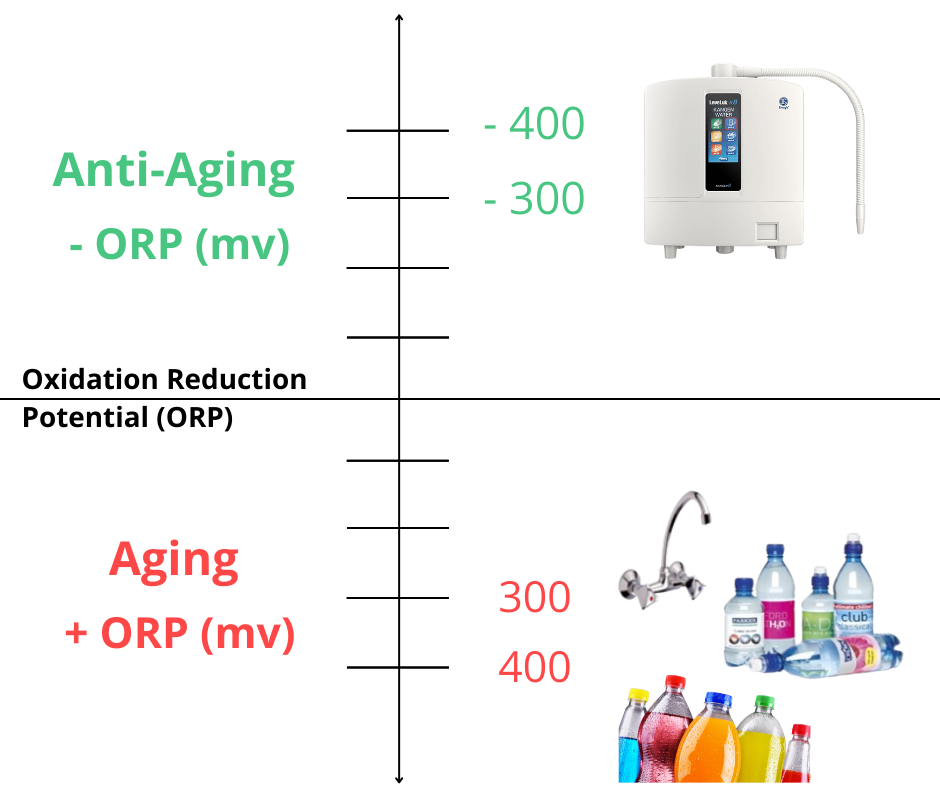
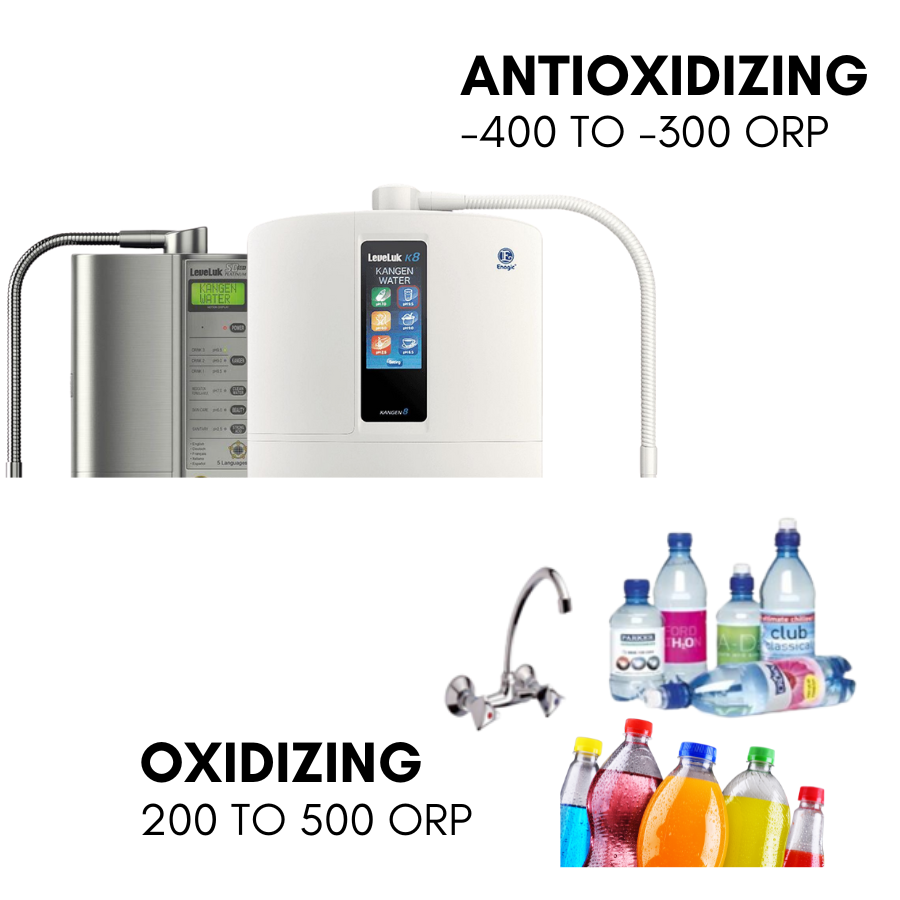
3 properties of KW in homepage

diff --git a/index.htm b/index.htm
@@ -127,7 +127,7 @@
                         Go chemical free in your home for drinking, cooking, cleaning, and many more
                     </p>
                     <p>
-                        Available in Singapore and worldwide
+                        Available in Singapore and in 22 Other Countries
                     </p>
                 </div>
                 <img class="img-fluid mt-4 row-of-ionizers" src="Pictures/Homepage Head Banner Cut.png" alt="Different models of Kangen water machines">
@@ -173,6 +173,30 @@
 
 
             <!-- Age slower with Kangen Water -->
+            <section class="container-fluid colored-banner">
+                <div class="container-style">
+                    <h2>Age slower with Kangen Water</h2>
+                    <div class="row">
+                        <div class="col-lg-7 col-sm-6">
+                            <p class="mobile-text-left long-text-x-margin">
+                                A lot of people think drinking is just about hydration. What if your water is able to provide you with huge amount 
+                                of antioxidants as well? Antioxidants neutralise the free radicals in our body.
+                            </p>
+                            <img class="img-fluid antioxidant-blueberry-img" src="Pictures/Properties - Antioxidation, blueberries.png" 
+                                        alt="Kangen Water and Blueberries Comparison">
+                            <p class="mobile-text-left long-text-x-margin">The Antioxidation property of Kangen Water is evident by how negative 
+                                its Oxidation Reduction Potential (ORP) measure is. If the ORP of our water is positive, it is oxidizing and 
+                                causes us to age at a faster pace.</p>
+                        </div>
+                        <div class="col-lg-5 col-sm-6 mt-2">
+                            <img class="img-fluid" src="Pictures/Properties - Antioxidation, ORP Chart.png" alt="Antioxidant ORP Chart">
+                        </div>
+                    </div>
+                </div>
+            </section>
+
+
+            <!-- Age slower with Kangen Water -->
             <!-- <section class="container-fluid colored-banner">
                 <div class="container-style">
                     <h2>Age slower with Kangen Water</h2>
@@ -191,53 +215,45 @@
                 </div>
             </section> -->
 
-            <!-- Antioxidant property -->
-            <section class="container-fluid colored-banner">
-                <div class="container-style">
-                    <h2>Age slower with Kangen Water</h2>
-                    <div class="row">
-                        <div class="col-lg-6 col-sm-6 mt-lg-2 mt-md-2">
-                            <p class="mobile-text-left">
-                                A lot of people think drinking is just about hydration. What if your water is able to provide you with huge amount 
-                                of antioxidants as well? Antioxidants neutralise the free radicals in our body.
-                            </p>
-                            <img class="img-fluid antioxidant-blueberry-img" src="Pictures/Properties - Antioxidation, blueberries.png" 
-                                        alt="Kangen Water and Blueberries Comparison">
-                            <p>The Antioxidation property of Kangen Water is evident by how negative its Oxidation Reduction Potential (ORP) measure is. Other drinks 
-                                commonly consumed by us are mostly highly oxidising, causing us to age at a faster rate.</p>
-                            <!-- <p class="mobile-text-left">
-                                One 300ml cup of <em>electrolyzed reduced</em> Kangen Water contains the same amount of antioxidants as 2.27kg of blueberries.
-                            </p> -->
-                        </div>
-                        <div class="col-lg-6 col-sm-6">
-                            <img class="img-fluid pt-1 antioxidant-img" src="Pictures/Properties - Antioxidation, ORP Chart.png" alt="Antioxidant ORP Chart">
-                        </div>
-                    </div>
-                </div>
-            </section>
-
 
             <!-- Health Benefits of Kangen Water -->
             <section class="container-fluid">
                 <div class="container-style">
-                    <h2>Health Benefits of Kangen Water</h2>
+                    <h2>Alkalinty and Micro-Clustering</h2>
                     <div class="row">
-                        <div class="col-lg-6 col-sm-6">
+                        <div class="col-lg-5 col-sm-6">
                             <img class="img-fluid pt-1" src="Pictures/Properties - Micro-Clustering.png" alt="Kangen Water Micro-Clustering Property">
                         </div>
-                        <div class="col-lg-6 col-sm-6 mt-lg-2 mt-md-2">
-                            <p class="mobile-text-left">
-                                A lot of people think drinking is just about hydration. What if your water is able to provide you with huge amount 
-                                of antioxidants as well? Antioxidants neutralise the free radicals in our body.
+                        <div class="col-lg-7 col-sm-6 mt-lg-2 mt-md-2">
+                            <p class="long-text-x-margin">
+                                Kangen Water is <a href="https://scholar.google.ca/scholar?hl=en&as_sdt=0%2C5&inst=14102473421921925766&q=electrolyzed+reduced+water&btnG=&oq=e">
+                                electrolyzed reduced water&#x2197;</a> and is made up of 3 properties, namely Antioxidation, Alkalinity and Micro-clustering.
                             </p>
-                            <img class="img-fluid antioxidant-blueberry-img" src="Pictures/Properties - Antioxidation, blueberries.png" alt="Kangen Water and Blueberries Comparison">
+                            <p class="text-left"><b>
+                                Alkalinity
+                            </b></p>
+                            <p class="long-text-x-margin">
+                                Cancer cells thrive in acidic environments and drinking alkaline water made using electrolysis by our 
+                                platinum-coated, titanium medical plates helps to move away from the possibility of the growth of cancer cells in the body.
+                            </p>
+                            <p class="text-left"><b>
+                                Micro-Clustering
+                            </b></p>
+                            <p class="long-text-x-margin">
+                                Kangen Water is micro-clustered which enables the speedy absorption of water by your body. Hence, it takes longer to 
+                                feel bloated while drinking Kangen Water, enabling you to drink more water in a single day.
+                            </p>
+                            <!-- <p>Antioxidation</p>
+                            <p>Alkalinity</p>
+                            <p>Micro-Clustering (smaller water molecules)</p> -->
+                            <!-- <br>
                             <h6 class="mobile-text-left">
-                                Health Benefits of Kangen Water
+                                Health Benefits of <em>electrolyzed reduced</em> Kangen Water
                             </h6>
-                            <p>Anti-oxidation (anti-aging), stronger immune system, lower blood cholesterol, and more...</p>
-                            <!-- <p class="mobile-text-left">
-                                One 300ml cup of <em>electrolyzed reduced</em> Kangen Water contains the same amount of antioxidants as 2.27kg of blueberries.
-                            </p> -->
+                            <p>Anti-oxidation (anti-aging)</p>
+                            <p>Stronger immune system</p>
+                            <p>Lower blood cholesterol</p>
+                            <p>and more...</p> -->
                         </div>
                     </div>
                 </div>
@@ -404,22 +420,24 @@
                         It is used in <b>more than 100 hospitals and medical clinics</b> in Japan for over 30 years.
                     </p>
                     <div class="ra-certificate">
-                        <img class="img-fluid paper-certificate" id="iso13485" role="button" 
+                        <img class="img-fluid cust-review" id="iso13485" role="button" 
                                 src="Pictures/Eczema before drinking Kangen Water.PNG" 
                                 alt="Customer Testimonial - Eczema Condition before drinking Kangen Water">
-                        <p><b></b>ISO13485 (Medical Device)</p>
+                        <p><b></b>Before drinking Kangen Water</p>
                     </div>
                     <div class="ra-certificate">
-                        <img class="img-fluid paper-certificate" id="wqa" role="button" 
+                        <img class="img-fluid cust-review" id="wqa" role="button" 
                                 src="Pictures/Eczema after drinking Kangen Water.PNG" 
                                 alt="Customer Testimonial - Eczema Condition after drinking Kangen Water">
-                        <p>WQA Gold Seal Award</p>
+                        <p>After drinking Kangen Water</p>
                     </div>
 
                     <!--Customer testimonials link button-->
-                    <a target="_blank" href="testimonials.htm"><button type="button" class="btn btn-outline-turquoise btn-lg py-3 px-4 mt-3 mx-2">
-                        <i class="fas fa-comments mr-1"></i> See customer testimonials <i class="fa-solid fa-arrow-up-right-from-square fa-xs ml-1"></i>
-                    </button></a> 
+                    <div class = "block">
+                        <a target="_blank" href="testimonials.htm"><button type="button" class="btn btn-outline-turquoise btn-lg py-3 px-4 mt-3 mx-2">
+                            <i class="fas fa-comments mr-1"></i> See more customer testimonials <i class="fa-solid fa-arrow-up-right-from-square fa-xs ml-1"></i>
+                        </button></a>
+                    </div>
                 </div>
             </section>
 

diff --git a/css/index.css b/css/index.css
@@ -62,27 +62,8 @@ body {
 
 /* in Recognitions & Awards */
 .long-text-x-margin {
-    margin: 0 6.2rem 0 6rem;
-    line-height: 2rem;
-}
-
-@media screen and (max-width: 905px) {
-    .long-text-x-margin {
-        margin: 0 3.2rem 0 3rem;
-    }    
-}
-
-@media screen and (max-width: 757px) {
-    .long-text-x-margin {
-        margin: 0 1.6rem 0 1.5rem;
-    }    
-}
-
-@media screen and (max-width: 587px) {
-    .long-text-x-margin {
-        margin: 0 1rem 0 1rem;
-        line-height: 1.6rem;
-    }    
+    line-height: 1.7rem;
+    text-align: left;
 }
 
 
@@ -99,7 +80,7 @@ body {
 
 /******************* Container styles *******************/
 .container-style {
-    max-width: 1000px;
+    max-width: 900px;
     margin: auto; 
 }
 
@@ -199,13 +180,16 @@ i.fa-5x {
 }
 
 .antioxidant-blueberry-img {
-    margin-top: 0.6rem;
-    margin-bottom: 1.2rem;
-    max-height: 10rem; 
+    margin-top: 0.4rem;
+    margin-bottom: 1rem;
+    max-height: 9.5rem; 
 }
 
 .antioxidant-img {
-    max-height: 24rem; 
+    /* position: absolute; */
+    max-height: 22rem; 
+    margin: auto 0;
+    /* vertical-align: middle; */
 }
 
 
@@ -507,7 +491,13 @@ the margin between the text and buttons will decrease */
 }
 
 
-/******************* Testimonials *******************/
+/******************* Customers' Testimonials *******************/
+.cust-review {
+    max-height: 10rem;
+}
+
+
+/******************* Experts' Testimonials *******************/
 
 /* Set a max limit to the size of the testimonial books */
 .carousel-item .img-fluid {
